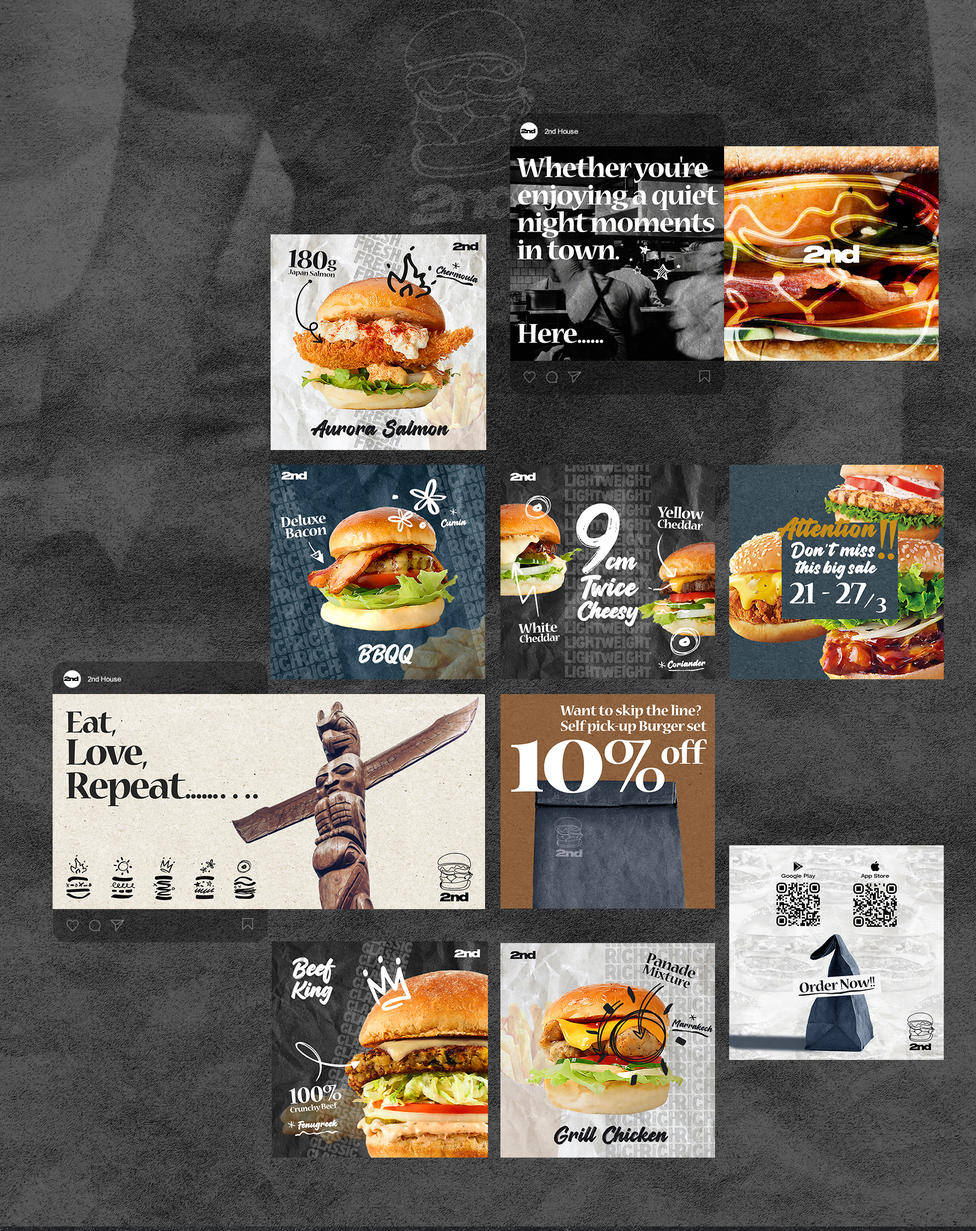
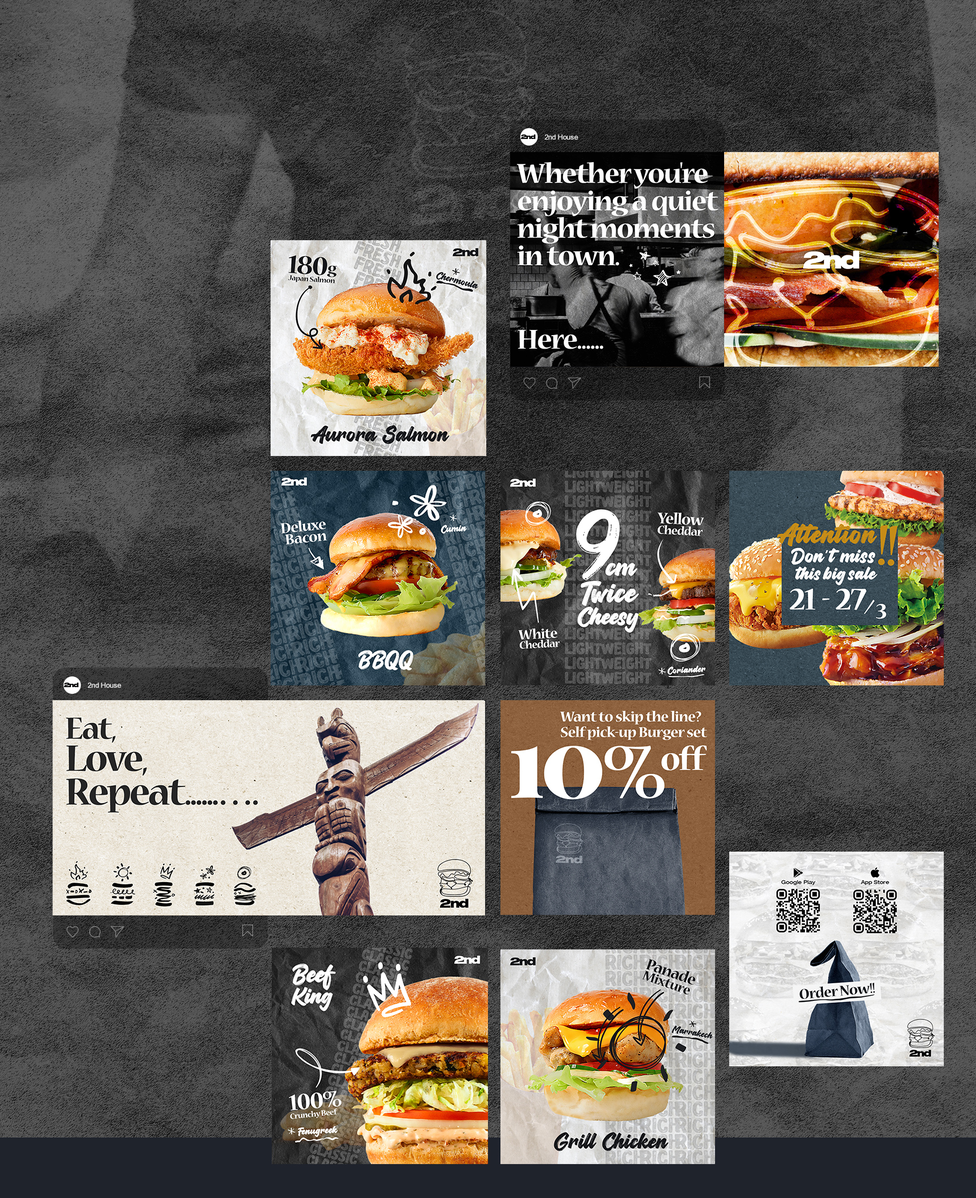
2511_01

diff --git a/project/2nd.html b/project/2nd.html
@@ -241,8 +241,6 @@
     <div class="spacing-large"></div>
 
 
-
-
     <div class="body-width observable parallax-section spacing-large">
         <div class="parallax-9"><img class="lazy" data-src="../images/projects/2nd/packing_paper.gif"></div>
         <div class="parallax-2"><img class="lazy" data-src="../images/projects/2nd/takeaway.gif"></div>
@@ -313,9 +311,8 @@
     </div>
 
     <div class="full-width observable parallax-section spacing-large">
-      <div class="parallax-1"><video width="75%" autoplay="" muted loop onclick="if (typeof InstallTrigger == 'undefined') (this.paused ? this.play() : this.pause());"/><source src="../images/projects/2nd/ins_video.mp4" type="video/mp4"></video></div>
-      <div class="parallax-2 spacing-small"><img class="lazy" data-src="../images/projects/2nd/visual_01.png"></div>
-      
+      <div class="parallax-10"><video width="75%" autoplay="" muted loop onclick="if (typeof InstallTrigger == 'undefined') (this.paused ? this.play() : this.pause());"/><source src="../images/projects/2nd/ins_video.mp4" type="video/mp4"></video></div>
+      <!--<div class="parallax-2 spacing-small"><img class="lazy" data-src="../images/projects/2nd/visual_01.png"></div>-->
     </div>
 
 

diff --git a/stylesheets/projects/2nd.css b/stylesheets/projects/2nd.css
@@ -97,6 +97,13 @@
     z-index: 99;
 }
 
+.parallax-10 {
+    top: 0vh;
+    left: 46.5vw;
+    width: 39vw;
+    z-index: 99;
+}
+
 .parallax-5 img {
     top: 5vh;
     left: 30%;
@@ -285,6 +292,14 @@
     width: 52vw;
     z-index: 99;
 }
+
+.parallax-10 {
+    top: 0vh;
+    left: 17vw;
+    width: 52vw;
+    z-index: 99;
+}
+
 
     .parallax-5 img {
         top: 22%;
@@ -644,6 +659,13 @@ body, .body {
     z-index: 99;
 }
 
+.parallax-10 {
+    top: 0vh;
+    left: 16.5vw;
+    width: 39vw;
+    z-index: 99;
+}
+
     .parallax-5 img {
     top: -8vh;
     left: -18%;
@@ -751,7 +773,8 @@ body, .body {
 
     .parallax-7 img {
     top: 2vh;
-    width: 80vw;
+    width: 46vw;
+    left: 2vw;
     display: block;
     margin-left: auto;
     margin-right: auto;
@@ -887,6 +910,13 @@ body, .body {
     z-index: 99;
 }
 
+.parallax-10 {
+    top: 0vh;
+    left: 46.5vw;
+    width: 39vw;
+    z-index: 99;
+}
+
 .parallax-7 img {
     top: -8vh;
     left: 2vw;
@@ -1000,6 +1030,13 @@ body, .body {
     top: 8vh;
     left: 2vw;
     width: 50vw;
+    z-index: 99;
+}
+
+.parallax-10 {
+    top: 0vh;
+    left: 46.5vw;
+    width: 39vw;
     z-index: 99;
 }
 
